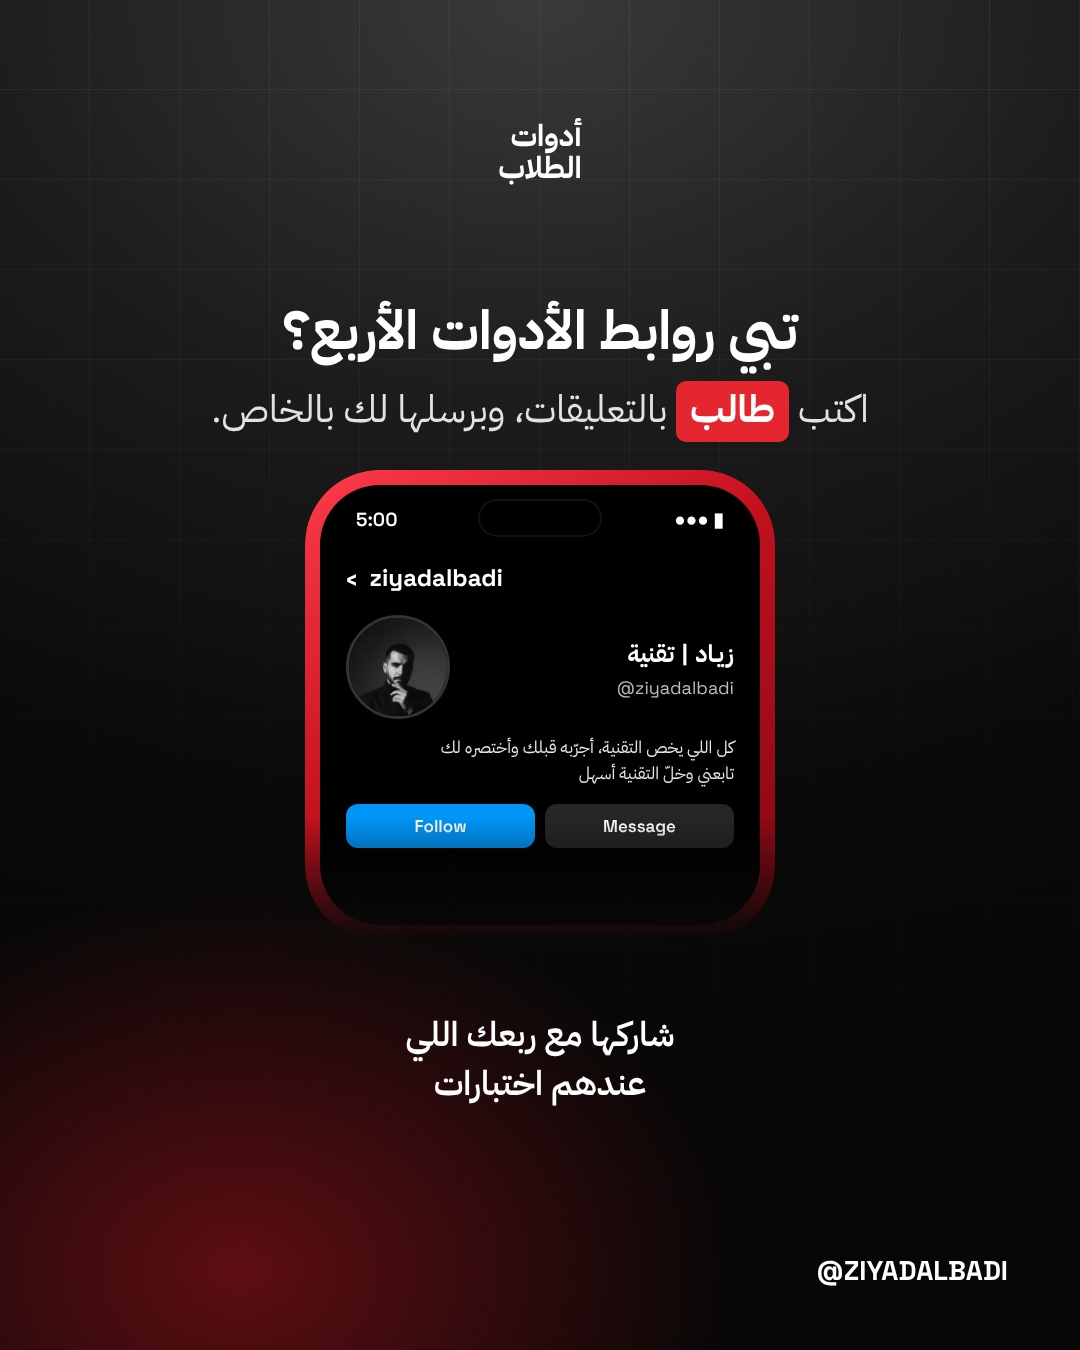
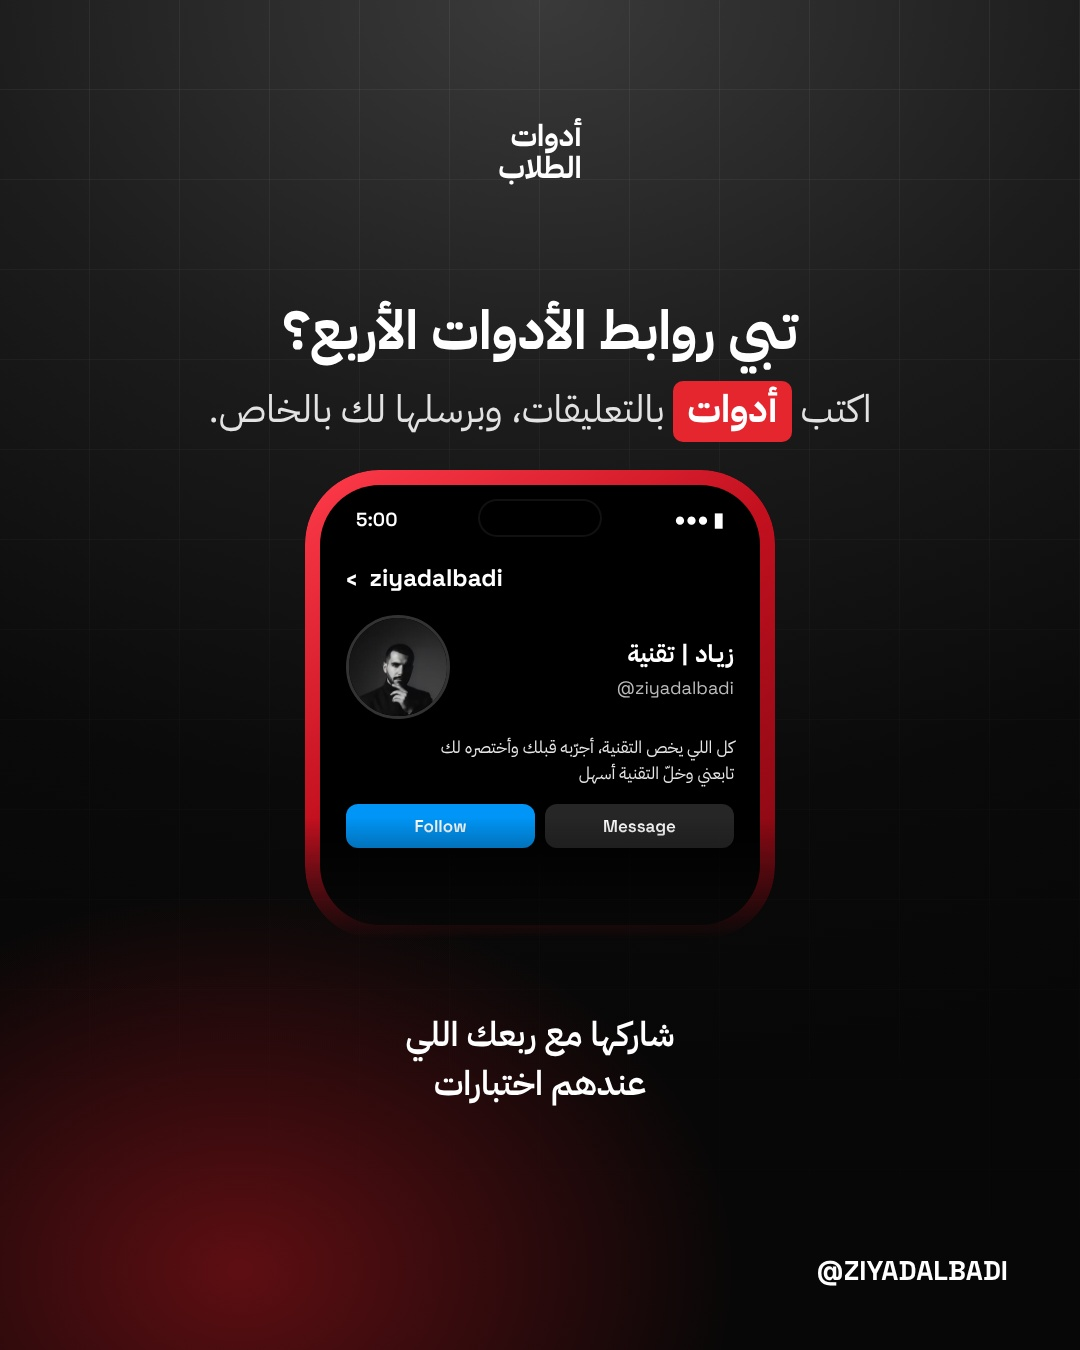
Student carousel: CTA keyword أدوات
Claude-Session: https://claude.ai/code/session_01KfNMA3U7kT2oyRtTnKGRw8

Changed region(s): [[0.2139, 0.28, 0.7333, 0.3422], [0.7639, 0.28, 0.825, 0.3111]]

diff --git a/posts/2026-10-14-ai-student-tools/links.md b/posts/2026-10-14-ai-student-tools/links.md
@@ -1,4 +1,4 @@
-# روابط أدوات الطلاب (رد «طالب»)
+# روابط أدوات الطلاب (رد «أدوات»)
 1. Consensus: https://consensus.app
 2. ChatGPT study mode: https://chatgpt.com
 3. Claude: https://claude.ai
